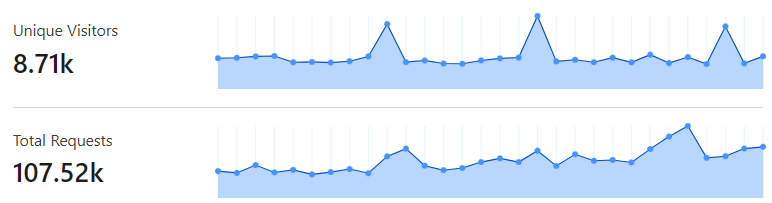
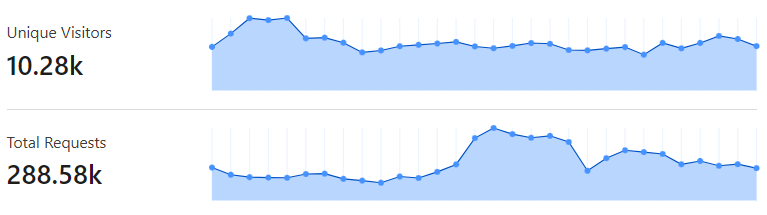
updated traffic

diff --git a/donate.html b/donate.html
@@ -115,7 +115,7 @@
          </div>
 
          <p class="my-4 h4">Overview Stats and Traffic</p>
-         Website has an average traffic of over 8000 unique visitors last month.
+         Website has an average traffic of over 10000 unique visitors last month.
          <img src="img/traffic-stats.png" class="img-fluid rounded mt-3" width="768" height="212"
             title="Website Traffic" alt="Cloudflare Website Traffic">
 
